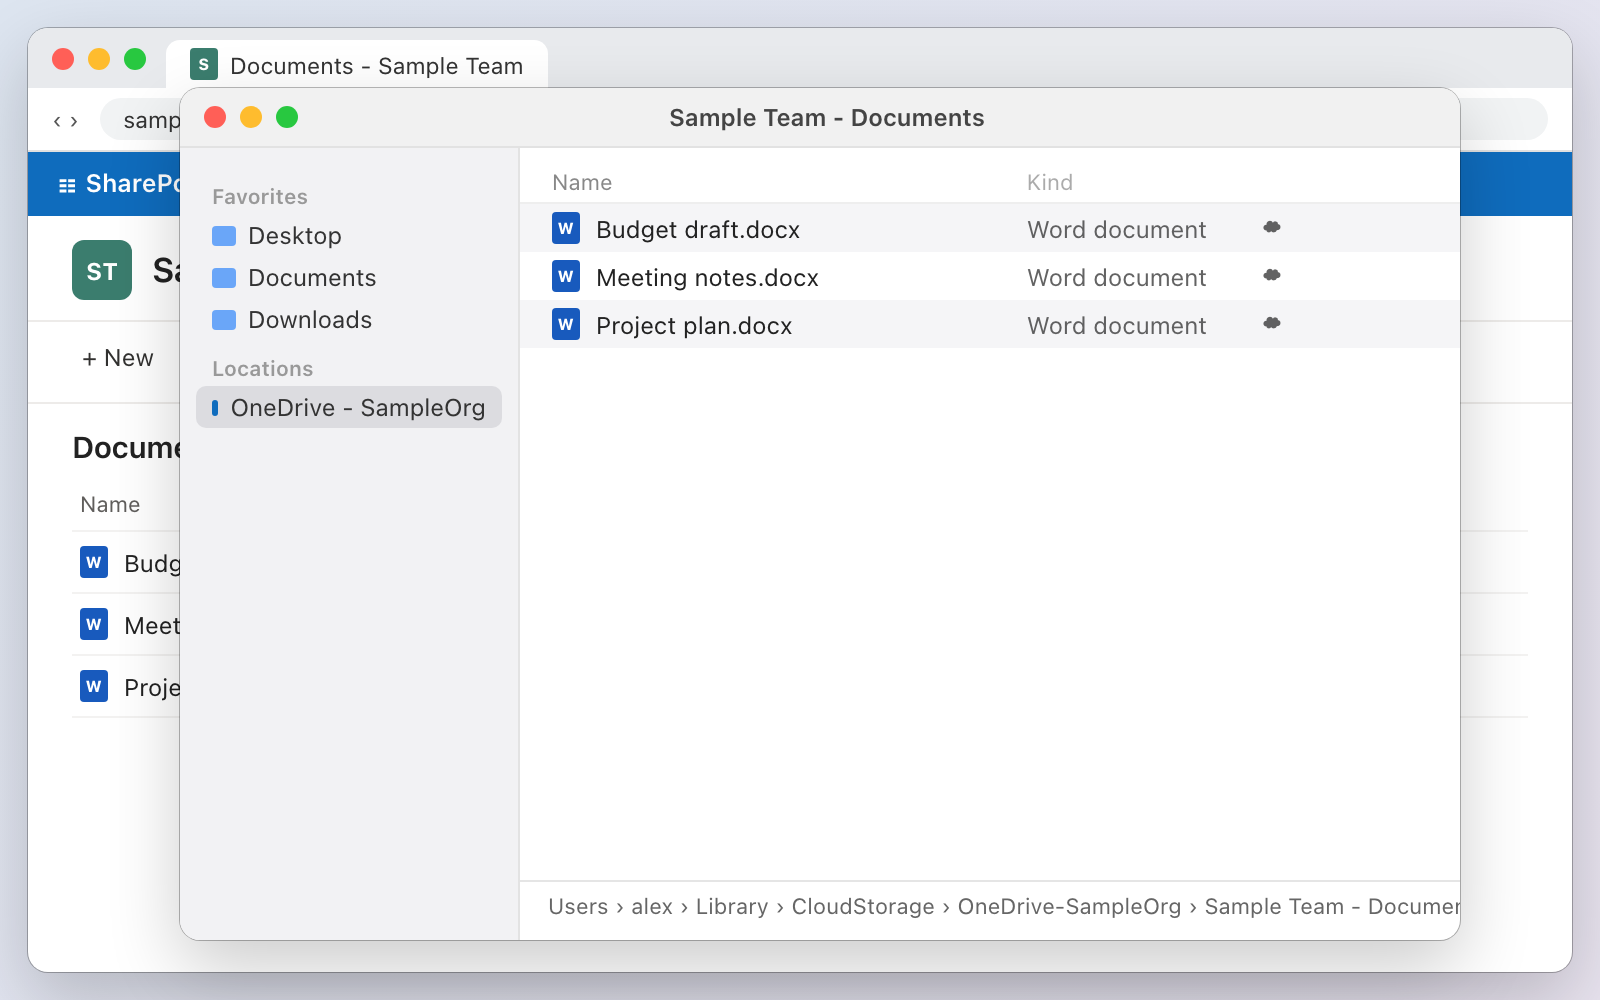
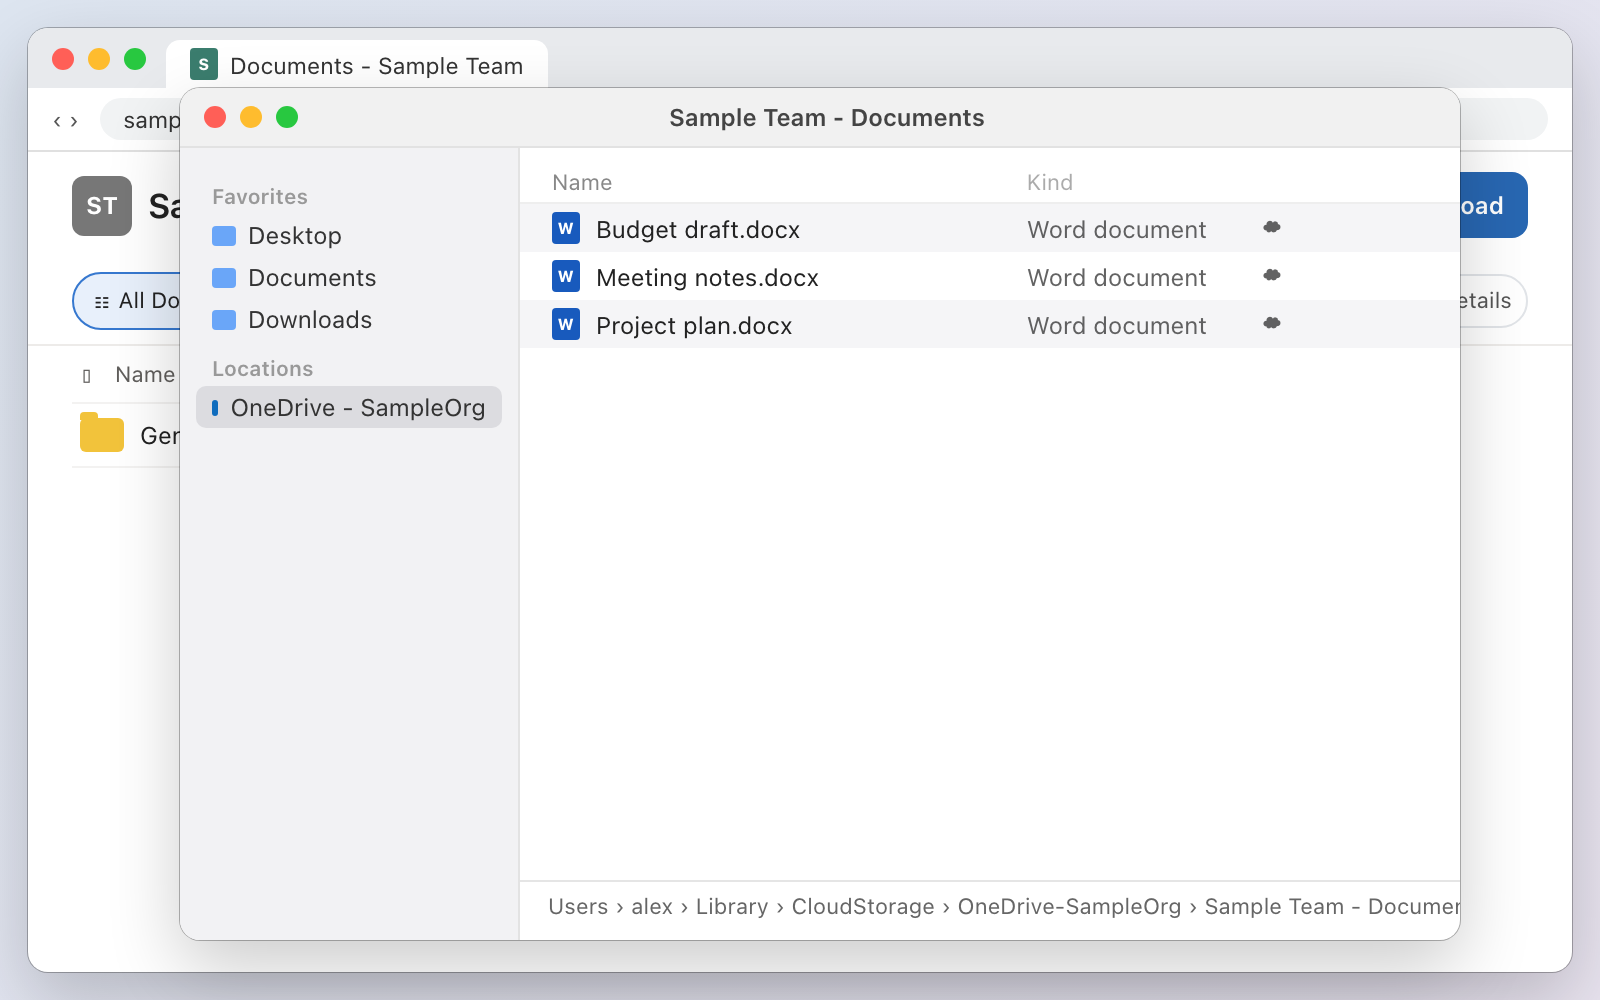
docs(docs): align OneDrive animation with library layout (#35)
* docs(docs): align OneDrive animation with library layout

* docs(docs): explain unsynced library links

---------

diff --git a/scripts/guide_images/styles.css b/scripts/guide_images/styles.css
@@ -168,18 +168,32 @@ a.lnk { color: #7c4ddb; text-decoration: underline; text-decoration-color: rgba(
 .browser .btab { height: 24px; margin-top: 6px; align-self: flex-start; padding: 0 12px; display: flex; align-items: center; gap: 6px; background: #fff; border-radius: 7px 7px 0 0; font-size: 11.5px; color: #333; }
 .addr { display: flex; align-items: center; gap: 10px; padding: 5px 12px; background: #fff; border-bottom: 1px solid #e0e0e0; font-size: 11.5px; color: #555; }
 .addr .url { flex: 1; background: #f1f3f4; border-radius: 12px; padding: 4px 12px; color: #333; }
-.suite { height: 32px; background: #0f6cbd; color: #fff; display: flex; align-items: center; padding: 0 14px; font-weight: 600; font-size: 12.5px; gap: 10px; }
-.site { display: flex; align-items: center; gap: 10px; padding: 12px 22px 10px; }
-.site .logo { width: 30px; height: 30px; border-radius: 6px; background: #3b7d6e; color: #fff; display: flex; align-items: center; justify-content: center; font-weight: 700; font-size: 12px; }
-.site .nm { font-size: 17px; font-weight: 600; }
-.cbar { display: flex; gap: 4px; padding: 4px 18px; border-top: 1px solid #edebe9; border-bottom: 1px solid #edebe9; font-size: 12px; color: #323130; }
-.cbar .cb { display: inline-block; padding: 6px 9px; border-radius: 4px; }
-.cbar .cb.hl { background: #f3f2f1; }
-.crumb { padding: 12px 22px 6px; font-size: 15px; font-weight: 600; }
-.lst { padding: 0 22px; font-size: 12px; }
+.browser .sitebar { display: flex; align-items: center; justify-content: space-between; gap: 14px; padding: 10px 22px; background: #fff; }
+.browser .site { display: flex; align-items: center; gap: 8px; min-width: 0; }
+.browser .site .logo { width: 30px; height: 30px; border-radius: 6px; background: #777; color: #fff; display: flex; align-items: center; justify-content: center; font-weight: 700; font-size: 12px; }
+.browser .site .nm { font-size: 17px; font-weight: 600; white-space: nowrap; }
+.browser .site-chevron, .browser .site-link { color: #555; font-size: 14px; }
+.browser .library-actions { display: flex; align-items: center; gap: 8px; white-space: nowrap; font-size: 12px; }
+.browser .library-actions [data-id="shortcut"], .browser .library-actions .more { border: 1px solid #e1e4e8; border-radius: 10px; padding: 8px 10px; color: #4b4b4b; background: #fff; }
+.browser .library-actions [data-id="shortcut"].hl { background: #f3f6fa; }
+.browser .library-actions .more { letter-spacing: 2px; }
+.browser .library-actions .separator { height: 24px; border-left: 1px solid #e1e4e8; margin: 0 3px; }
+.browser .library-actions .create { border-radius: 8px; padding: 9px 12px; color: #fff; background: #2867b2; font-weight: 600; }
+.browser .library-viewbar { display: flex; align-items: center; justify-content: space-between; gap: 10px; padding: 7px 22px; border-bottom: 1px solid #edebe9; background: #fff; }
+.browser .library-views, .browser .library-tools { display: flex; align-items: center; gap: 6px; white-space: nowrap; font-size: 11px; }
+.browser .library-view { border: 1px solid transparent; border-radius: 18px; padding: 6px 9px; color: #4b4b4b; }
+.browser .library-view.active { border-color: #3678cf; background: #e8f0fb; color: #222; }
+.browser .library-tools .filter, .browser .library-tools .app, .browser .library-tools .details { border: 1px solid #e1e4e8; border-radius: 16px; padding: 5px 7px; color: #555; }
+.browser .library-tools .app { border: 0; border-radius: 50%; background: #f0f1f2; font-weight: 700; }
+.browser .library-tools .word-app { color: #2456a6; }
+.browser .library-tools .sheet-app { color: #22824c; }
+.browser .library-tools .slide-app { color: #c34c31; }
+.lst { width: 66%; padding: 0 22px; font-size: 12px; }
 .lst .r { display: flex; padding: 7px 4px; border-bottom: 1px solid #f3f2f1; align-items: center; }
 .lst .r.hd { color: #605e5c; font-size: 11px; }
 .lst .c1 { flex: 1; display: flex; gap: 8px; align-items: center; }
+.lst .folder { position: relative; width: 22px; height: 17px; border-radius: 3px; background: #f2c33b; }
+.lst .folder::before { position: absolute; top: -3px; left: 0; width: 9px; height: 4px; border-radius: 2px 2px 0 0; background: #f2c33b; content: ""; }
 .lst .c2 { width: 120px; color: #605e5c; }
 .lst .c3 { width: 110px; color: #605e5c; }
 .docx { width: 14px; height: 16px; background: #185abd; border-radius: 2px; color: #fff; font-size: 8px; font-weight: 800; display: flex; align-items: center; justify-content: center; }

diff --git a/scripts/guide_images/views.ts b/scripts/guide_images/views.ts
@@ -288,7 +288,12 @@ function libraryView(st: State): string {
   if (!library) return "";
 
   const rows = library.rows
-    .map((r) => `<div class="r"><div class="c1"><span class="docx">W</span>${escapeHtml(r.name)}</div><div class="c2">${escapeHtml(r.modified)}</div><div class="c3">${escapeHtml(r.by)}</div></div>`)
+    .map((r) => {
+      const icon =
+        r.kind === "folder" ? '<span class="folder"></span>' : '<span class="docx">W</span>';
+
+      return `<div class="r"><div class="c1">${icon}${escapeHtml(r.name)}</div><div class="c2">${escapeHtml(r.modified)}</div><div class="c3">${escapeHtml(r.by)}</div></div>`;
+    })
     .join("");
   const toast =
     library.toast > 0
@@ -299,11 +304,15 @@ function libraryView(st: State): string {
   return `
     <div class="titlebar">${TRAFFIC_LIGHTS}<div class="btab"><span class="docx" style="background:#3b7d6e">S</span>Documents - Sample Team</div></div>
     <div class="addr"><span>‹ ›</span><div class="url">sample.sharepoint.com/sites/SampleTeam/Shared Documents</div></div>
-    <div class="suite">☷ SharePoint</div>
-    <div class="site"><div class="logo">ST</div><div class="nm">Sample Team</div></div>
-    <div class="cbar"><span class="cb">+ New</span><span class="cb">↑ Upload</span><span class="cb">Edit in grid view</span>${button("sync", "⟳ Sync")}${button("shortcut", "➕ Add shortcut to My files")}</div>
-    <div class="crumb">Documents</div>
-    <div class="lst"><div class="r hd"><div class="c1">Name</div><div class="c2">Modified</div><div class="c3">Modified By</div></div>${rows}</div>
+    <div class="sitebar">
+      <div class="site"><div class="logo">ST</div><div class="nm">Sample Team</div><span class="site-chevron">⌄</span><span class="site-link">↗</span><span class="site-link">◎</span></div>
+      <div class="library-actions">${button("shortcut", "↗ Add shortcut to My files ▾")}<span class="more">•••</span><span class="separator"></span><span class="create">＋ Create or upload</span></div>
+    </div>
+    <div class="library-viewbar">
+      <div class="library-views"><span class="library-view active">☷ All Documents</span><span class="library-view">☷ In channels</span><span class="library-view">＋ Add view</span></div>
+      <div class="library-tools"><span class="filter">☰</span><span class="app word-app">W</span><span class="app sheet-app">X</span><span class="app slide-app">P</span><span class="details">☷ Details</span></div>
+    </div>
+    <div class="lst"><div class="r hd"><div class="c1">▯　Name　⌄</div><div class="c2">Modified　ⓘ　⌄</div><div class="c3">Modified By　⌄</div></div>${rows}</div>
     ${toast}`;
 }
 

diff --git a/scripts/guide_images/scenes/02-onedrive.ts b/scripts/guide_images/scenes/02-onedrive.ts
@@ -4,11 +4,7 @@ import type { FinderWindow, LibraryWindow, State } from "../state.ts";
 
 function library(): LibraryWindow {
   return {
-    rows: [
-      { name: "Budget draft.docx", modified: "May 9", by: "Sam Lee" },
-      { name: "Meeting notes.docx", modified: "May 11", by: "Alice Smith" },
-      { name: "Project plan.docx", modified: "May 12", by: "Alice Smith" },
-    ],
+    rows: [{ name: "General", modified: "Sep 18", by: "Sam Lee", kind: "folder" }],
     hover: null,
     toast: 0,
     toastText: "Shortcut added to My files.",
@@ -43,10 +39,7 @@ scene<State>({
   init: (st) => ({ ...st, layers: { browser: { o: 1, s: 1, blur: 0 } }, order: ["browser"], library: library(), finder: finder() }),
   script: (s) => {
     s.wait(400).pointerAt({ x: 420, y: 330 });
-    s.move("sync", 700).set((st) => {
-      if (st.library) st.library.hover = "sync";
-    });
-    s.wait(700).move("shortcut", 420);
+    s.move("shortcut", 820);
     s.set((st) => {
       if (st.library) st.library.hover = "shortcut";
     });

diff --git a/scripts/guide_images/state.ts b/scripts/guide_images/state.ts
@@ -106,6 +106,7 @@ export interface LibraryRow {
   name: string;
   modified: string;
   by: string;
+  kind?: "folder" | "word";
 }
 
 /** A SharePoint document library in the browser. `toast` is the opacity of the confirmation. */

diff --git a/docs/guide.md b/docs/guide.md
@@ -41,7 +41,7 @@ If the OneDrive app is not signed in, sign in with your work account first.
 
 <picture>
   <source media="(prefers-reduced-motion: reduce)" srcset="images/02-onedrive.png">
-  <img src="images/02-onedrive.gif" alt="Click Add shortcut to My files in a SharePoint library, then open the library folder in the OneDrive location in Finder." width="800">
+  <img src="images/02-onedrive.gif" alt="Click Add shortcut to My files in the SharePoint library top bar, then open the library folder in OneDrive in Finder." width="800">
 </picture>
 
 ## 3. Find and open a document
@@ -50,7 +50,11 @@ If the OneDrive app is not signed in, sign in with your work account first.
 2. Type words from the document name, and press <kbd>Return</kbd>.
 3. Pick the document. spsync makes a note for the document in the `SharePoint` folder of your vault, and opens the note.
 
-To open a document from a link, run **Open a SharePoint link**. To see the documents that you opened recently, run **Open a recent SharePoint document**.
+For a library that you cannot sync to OneDrive, run **Open a SharePoint link** and paste the
+document's SharePoint URL. spsync uses the signed-in Word for Mac app to read and save the
+document. You do not need to sync the whole library.
+
+To reopen a document, run **Open a recent SharePoint document**.
 
 <picture>
   <source media="(prefers-reduced-motion: reduce)" srcset="images/03-find-and-open.png">
